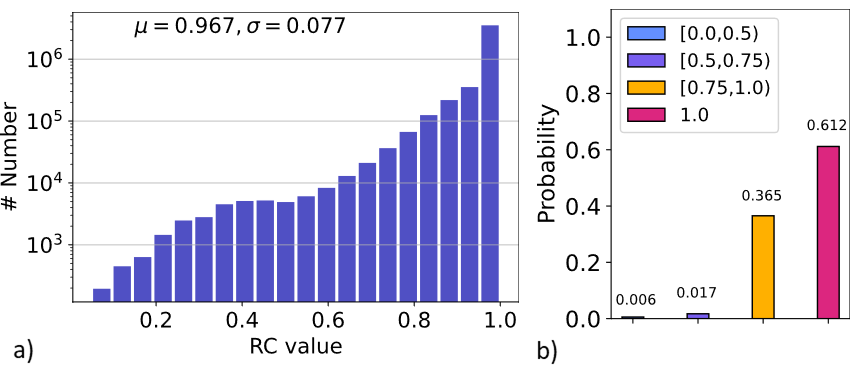
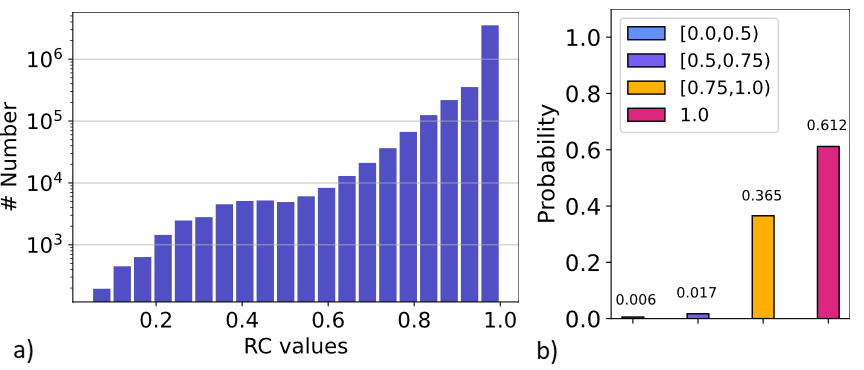
final update

Changed region(s): [[0.1562, 0.0297, 0.4062, 0.0892], [0.2812, 0.8919, 0.4062, 0.9811]]

diff --git a/README.md b/README.md
@@ -4,20 +4,19 @@
 
 Repository of the paper **[Quantification of Actual Road User Behavior on the Basis of Given Traffic Rules](https://arxiv.org/abs/2202.09269)** at [IV 2022](https://iv2022.com/). The first authors are strong supporters of the [Public Money, Public Code](https://publiccode.eu/) idea and happy to contribute to it with this repository. 
 
-It provides two scripts to extract and learn the rule conformity of two traffic rules out of the [Waymo Open Dataset Motion](https://waymo.com/intl/en_us/dataset-motion/):
+It provides two scripts to extract and learn the rule conformity of two traffic rules out of the [Waymo Open Dataset Motion](https://waymo.com/intl/en_us/open/data/motion/):
 
 * Distance keepingr
 * Speed limitation
 
 Each rule conformity is a percentage, that indicates how strongly a rule is followed among every driver in the dataset.
 
-Detailed description of the underlying rules [here](https://google.com/)
 
 # Results of both rules:
 
 <span style="font-size:larger;">
 
-📋  Distance Keeping: μ=0.867 σ=0.2
+📋  Distance Keeping average rule conformity: 0.867
  
 <details>
 
@@ -44,7 +43,7 @@ Detailed description of the underlying rules [here](https://google.com/)
 
 <span style="font-size:larger;">
 
-📋 Speed Limitation: μ=0.967 σ=0.077
+📋 Speed Limitation average rule conformity: 0.967
 
 <details>
 
